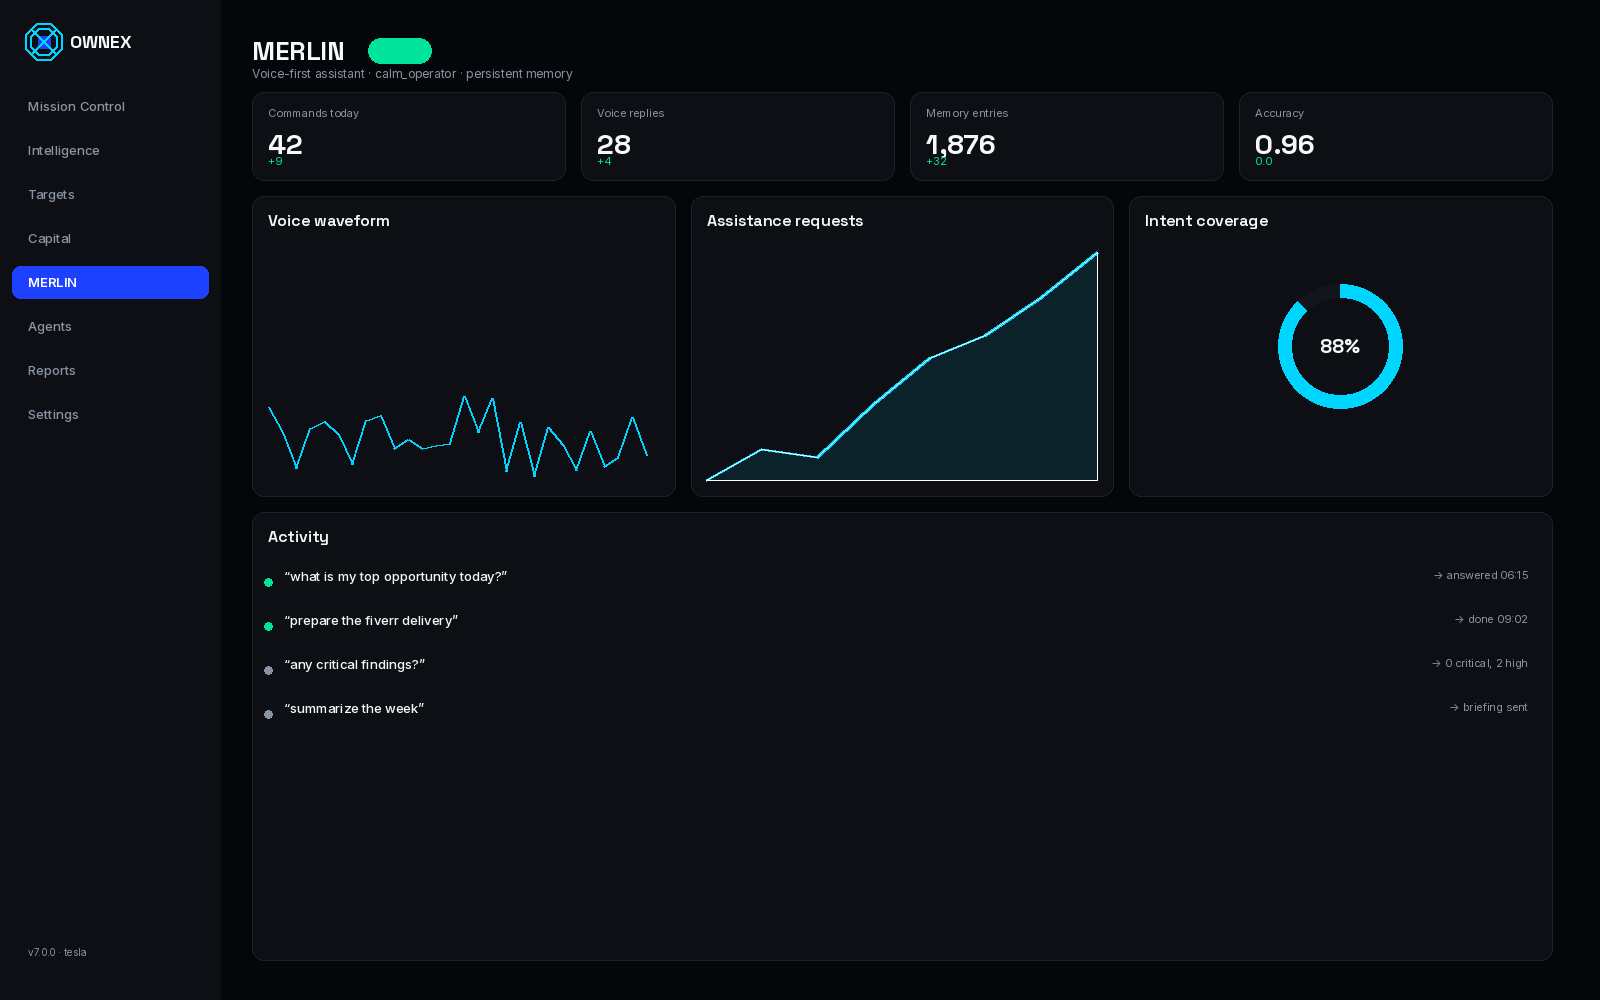
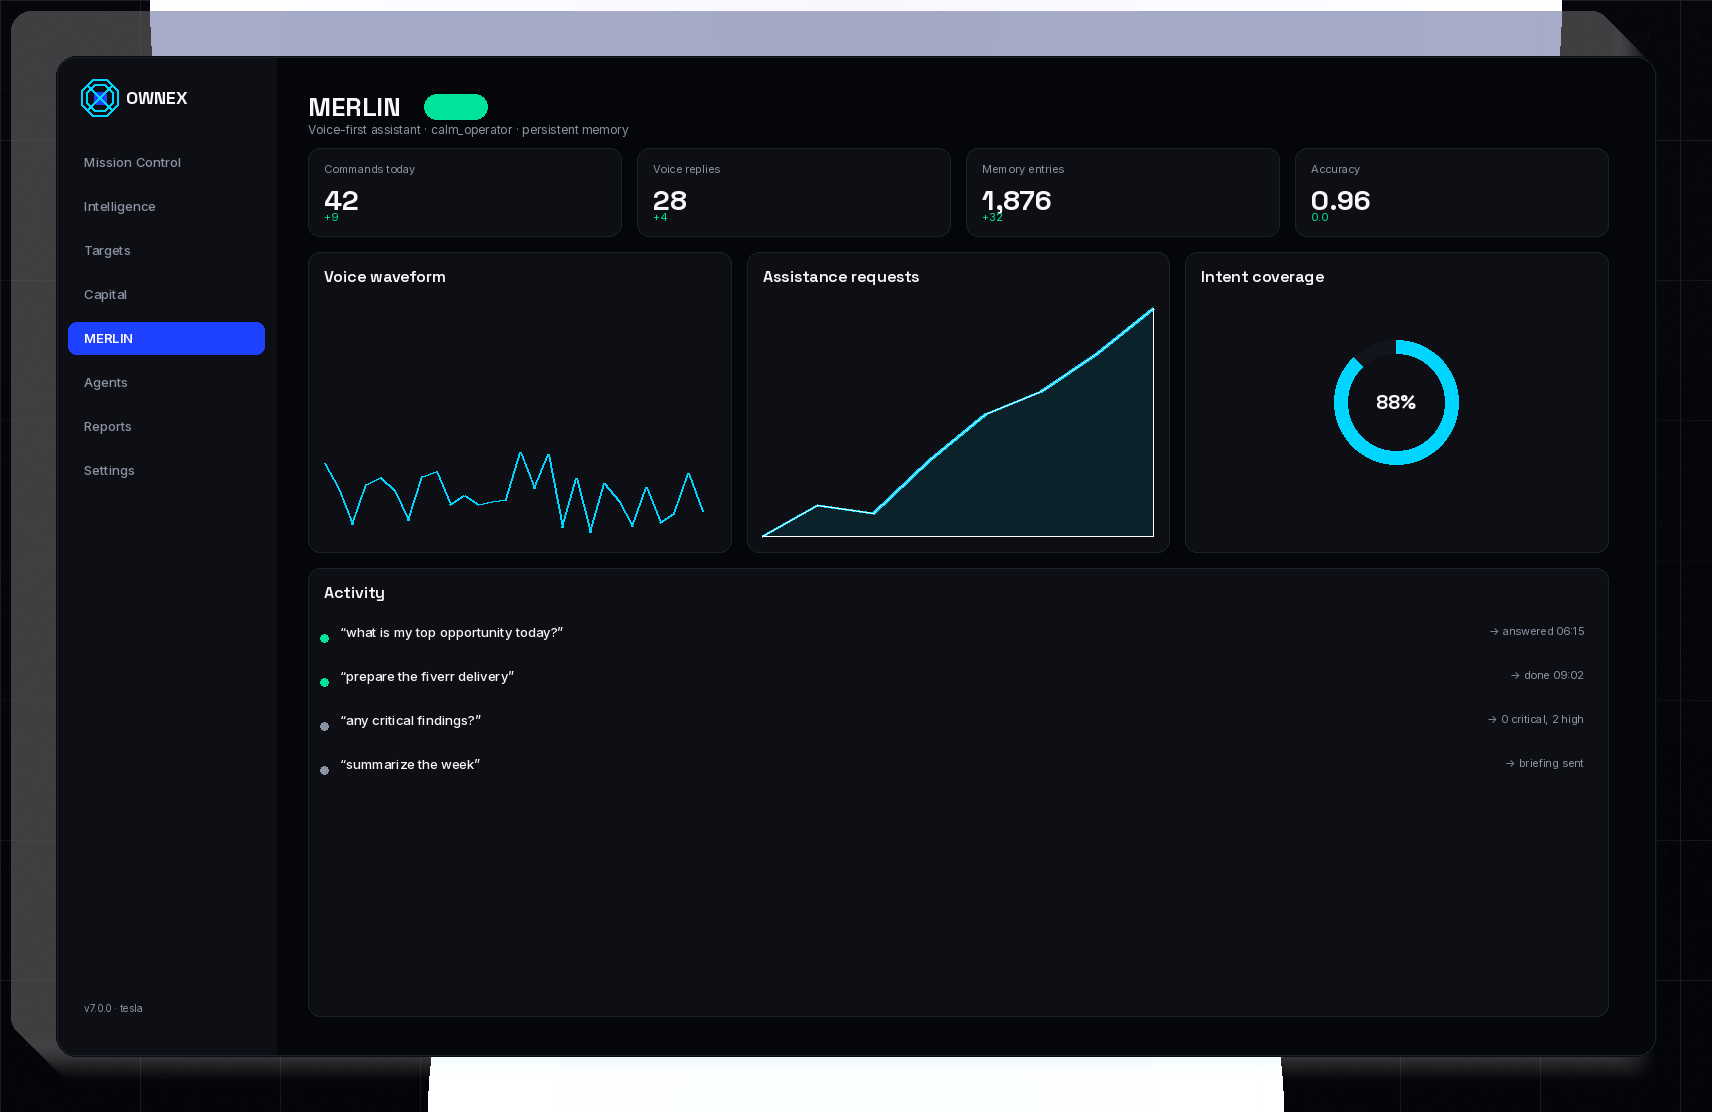
feat(brand): premium GitHub presentation — device frames, hero light, OG social sync
- desktop surfaces framed with Tesla-dark gradient + glow + grain (1600x1000 → 1712x1112)
- mobile screens framed with device bezel + shadow (1290x2796 → 1370x2876)
- hero-banner-light.png: light-mode hero variant (RGBA canvas + flatten, safe glow)
- social preview now synced from the premium OG render (og-image.png → .github/social-preview.png, md5-verified) + premium co-authored SVG
- validate_assets.py checks the new sync source
- README: hero via <picture> prefers-color-scheme, cache-bust ?v=4 → ?v=5

diff --git a/scripts/brand/generate_github_assets.py b/scripts/brand/generate_github_assets.py
@@ -16,6 +16,7 @@ from __future__ import annotations
 import math
 import os
 import random
+import shutil
 from collections.abc import Callable
 from pathlib import Path
 
@@ -192,7 +193,7 @@ def grid_faded(img: Image.Image, cx, cy, step=120, base=(13, 16, 22), peak=44):
     img.paste(ov, (0, 0), ov)
 
 
-def grain(img: Image.Image, seed: int, n=16000, alpha=7):
+def grain(img: Image.Image, seed: int, n=16000, alpha=7, color=(255, 255, 255)):
     """Subtle film grain overlay (deterministic)."""
     random.seed(seed)
     w, h = img.size
@@ -202,7 +203,7 @@ def grain(img: Image.Image, seed: int, n=16000, alpha=7):
         x = random.randrange(w)
         y = random.randrange(h)
         a = random.randint(max(alpha - 3, 1), alpha + 3)
-        od.point((x, y), fill=(255, 255, 255, a))
+        od.point((x, y), fill=color + (a,))
     img.paste(ov, (0, 0), ov)
 
 
@@ -262,28 +263,28 @@ def corner_ticks(d: ImageDraw.ImageDraw, w, h, length=70, color="#2A2F3A"):
         d.line((tx, ty, tx, ty + dy * length), fill=color, width=2)
 
 
-def eyebrow(d: ImageDraw.ImageDraw, w, t: str, y, fs=20, color="#5C6575"):
+def eyebrow(d: ImageDraw.ImageDraw, w, t: str, y, fs=20, color="#5C6575", hair=HAIRLINE, dot=EMERALD):
     """Centered mono eyebrow with hairline + status dot."""
     f_ey = mono_font(fs)
     ew = d.textlength(t, font=f_ey)
     ex = (w - ew) // 2
     wing = 300 if fs > 16 else 170
-    d.line((ex - wing, y - fs // 2, ex - 80, y - fs // 2), fill=HAIRLINE, width=1)
-    d.line((ex + ew + 80, y - fs // 2, ex + ew + wing, y - fs // 2), fill=HAIRLINE, width=1)
-    status_dot(d, w // 2, y - fs // 2, EMERALD)
+    d.line((ex - wing, y - fs // 2, ex - 80, y - fs // 2), fill=hair, width=1)
+    d.line((ex + ew + 80, y - fs // 2, ex + ew + wing, y - fs // 2), fill=hair, width=1)
+    status_dot(d, w // 2, y - fs // 2, dot)
     d.text((ex, y), t, font=f_ey, fill=color, anchor="la")
 
 
-def hero_pills(d: ImageDraw.ImageDraw, w, pills, y, fs=20):
+def hero_pills(d: ImageDraw.ImageDraw, w, pills, y, fs=20, fill=SURFACE, outline=HAIRLINE, tcol=TEXT):
     fch = font(fs, 600)
     ws = [d.textlength(lbl, font=fch) + 52 for lbl, _ in pills]
     gap = 26
     total = sum(ws) + gap * (len(pills) - 1)
     x = (w - total) // 2
     for (lbl, c), ww in zip(pills, ws, strict=True):
-        rr(d, (x, y, x + ww, y + fs + 26), r=(fs + 26) // 2, fill=SURFACE, outline=HAIRLINE, width=1)
+        rr(d, (x, y, x + ww, y + fs + 26), r=(fs + 26) // 2, fill=fill, outline=outline, width=1)
         status_dot(d, x + 22, y + (fs + 26) // 2, c, 5)
-        d.text((x + 38, y + (fs + 26) // 2), lbl, font=fch, fill=TEXT, anchor="lm")
+        d.text((x + 38, y + (fs + 26) // 2), lbl, font=fch, fill=tcol, anchor="lm")
         x += ww + gap
 
 
@@ -1205,8 +1206,88 @@ def render_architecture(name: str) -> Image.Image:
 
 
 # --------------------------------------------------------------- hero ---
+def frame_surface(img: Image.Image, pad=56, radius=20) -> Image.Image:
+    """Premium frame for desktop surface renders: backdrop + rounded app window."""
+    w, h = img.size
+    cw, ch = w + pad * 2, h + pad * 2
+    canvas = Image.new("RGBA", (cw, ch), (0, 0, 0, 0))
+    d = gradient_bg(canvas, (7, 8, 13), (4, 5, 8))
+    glow(canvas, d, cw // 2, 0, int(cw * 0.55), BLUE, peak=9, steps=20)
+    glow(canvas, d, cw // 2, ch, int(cw * 0.4), CYAN, peak=5, steps=16)
+    grid_faded(canvas, cw // 2, ch // 2, step=140, base=(13, 16, 22), peak=26)
+    grain(canvas, seed=20260814, n=14000, alpha=6)
+
+    box = (pad, pad, pad + w, pad + h)
+    card_shadow(canvas, box, r=radius, offset=(0, 26), blur=46, alpha=160)
+    mask = Image.new("L", (w, h), 0)
+    ImageDraw.Draw(mask).rounded_rectangle((0, 0, w, h), radius=radius, fill=255)
+    canvas.paste(img, (pad, pad), mask)
+    dd = ImageDraw.Draw(canvas)
+    dd.rounded_rectangle(box, radius=radius, outline=HAIRLINE, width=2)
+    dd.rounded_rectangle(box, radius=radius, outline="#0A0C11", width=1)
+    return canvas
+
+
+def frame_device(img: Image.Image, pad=40, radius=72) -> Image.Image:
+    """Premium device frame: dark bezel + screen inset + soft floor shadow."""
+    w, h = img.size
+    cw = w + pad * 2
+    ch = h + pad * 2
+    canvas = Image.new("RGBA", (cw, ch), (0, 0, 0, 0))
+    d = gradient_bg(canvas, (7, 8, 13), (3, 4, 7))
+    glow(canvas, d, cw // 2, 0, int(cw * 0.6), CYAN, peak=6, steps=18)
+    grid_faded(canvas, cw // 2, ch // 2, step=100, base=(13, 16, 22), peak=24)
+    grain(canvas, seed=20260815, n=10000, alpha=5)
+
+    bezel = (pad - 6, pad - 6, pad + w + 6, pad + h + 6)
+    card_shadow(canvas, bezel, r=radius + 6, offset=(0, 30), blur=50, alpha=170)
+    ImageDraw.Draw(canvas).rounded_rectangle(bezel, radius=radius + 6, fill="#000000", outline="#262B35", width=4)
+
+    mask = Image.new("L", (w, h), 0)
+    ImageDraw.Draw(mask).rounded_rectangle((0, 0, w, h), radius=radius, fill=255)
+    canvas.paste(img, (pad, pad), mask)
+    dd = ImageDraw.Draw(canvas)
+    dd.rounded_rectangle((pad, pad, pad + w, pad + h), radius=radius, outline=HAIRLINE, width=2)
+    return canvas
+
+
 def render_hero(mode: str = "dark") -> Image.Image:
     w, h = 2400, 900
+    if mode == "light":
+        light_bg = "#F4F6F9"
+        img = Image.new("RGBA", (w, h), (0, 0, 0, 0))
+        d = gradient_bg(img, (250, 251, 253), (227, 232, 240))
+        glow(img, d, w // 2, 240, 900, "#1E40FF", peak=14, steps=22)
+        glow(img, d, 780, 500, 500, "#0EA5C9", peak=10, steps=20)
+        grid_faded(img, w // 2, h // 2, base=(203, 210, 222), peak=38)
+        grain(img, seed=20260813, n=14000, alpha=5, color=(24, 29, 40))
+        d = ImageDraw.Draw(img)
+        d.line((0, 0, w, 0), fill="#D5DAE3", width=1)
+        corner_ticks(d, w, h, color="#C3CAD6")
+
+        eyebrow(d, w, "PERSONAL AUTONOMOUS WORK OPERATING SYSTEM", 175, fs=20, color="#5C6575", hair="#CDD3DE")
+
+        draw_mark(d, 770, 500, 360, color="#0EA5C9", node="#1E40FF")
+        gradient_text(img, (1045, 470), "OWNEX", display_font(170, 700), "#0D0F14", "#1E40FF")
+        d = ImageDraw.Draw(img)
+        tracked_text(d, (1051, 582), "AUTONOMOUS WORK OPERATING SYSTEM", font(28), "#4B5563", tracking=16)
+        d.line((1051, 650, 1051 + 760, 650), fill="#CDD3DE", width=1)
+
+        hero_pills(
+            d,
+            w,
+            [
+                ("100% LOCAL · NO CLOUD", "#00A37A"),
+                ("135 CURATED SOURCES", "#0EA5C9"),
+                ("28 CRON JOBS · 7 CYCLES", "#1E40FF"),
+            ],
+            h - 120,
+            fill="#FFFFFF",
+            outline="#D5DAE3",
+            tcol="#0D0F14",
+        )
+        return flatten(img, bg=light_bg)
+
     img = Image.new("RGBA", (w, h), _hex(BG) + (255,))
     d = gradient_bg(img, (5, 6, 10), (10, 13, 19))
     glow(img, d, w // 2, 240, 900, BLUE, peak=40, steps=22)
@@ -1266,16 +1347,17 @@ def render_og() -> Image.Image:
 
 # ----------------------------------------------------------------- main ---
 def make_surface_renderer(name: str, spec: dict) -> Callable[[], Image.Image]:
-    return lambda: render_surface(name, spec)
+    return lambda: frame_surface(render_surface(name, spec))
 
 
 def make_mobile_renderer(name: str, spec: dict) -> Callable[[], Image.Image]:
-    return lambda: render_mobile(name, spec)
+    return lambda: frame_device(render_mobile(name, spec))
 
 
 ASSETS = {
     "hero": {
         "hero-banner-dark.png": lambda: render_hero("dark"),
+        "hero-banner-light.png": lambda: render_hero("light"),
         "hero-premium.png": lambda: render_hero_premium(),
     },
     "logo": {
@@ -1319,6 +1401,96 @@ def mark_img(size: int, color: str, node: str, bg: str | None = None) -> Image.I
     return img
 
 
+def mark_svg(color: str, node: str = BLUE, size: int = 512) -> str:
+    """O+X Aperture Nexus mark as inline SVG (geometry shared with the logo pipeline)."""
+    r = 190.0
+    cx = cy = 256.0
+    stroke = 26.0
+    x1 = f'<rect x="{cx - stroke / 2}" y="{cy - r * 0.72}" width="{stroke}" height="{r * 1.44}" rx="{stroke / 2}" fill="{color}" transform="rotate(45 {cx} {cy})"/>'
+    x2 = f'<rect x="{cx - stroke / 2}" y="{cy - r * 0.72}" width="{stroke}" height="{r * 1.44}" rx="{stroke / 2}" fill="{color}" transform="rotate(-45 {cx} {cy})"/>'
+    n = 8
+    gap_deg = 34.0
+    segments = []
+    gap_start = 45.0 - gap_deg / 2
+    for i in range(n):
+        a0 = i * (360.0 / n)
+        a1 = a0 + (360.0 / n)
+        center = (a0 + a1) / 2
+        if abs(((center - gap_start + 180) % 360) - 180) < gap_deg / 2 + 5:
+            continue
+        x0 = cx + r * math.cos(math.radians(a0))
+        y0 = cy + r * math.sin(math.radians(a0))
+        x1p = cx + r * math.cos(math.radians(a1))
+        y1p = cy + r * math.sin(math.radians(a1))
+        segments.append(
+            f'<line x1="{x0:.1f}" y1="{y0:.1f}" x2="{x1p:.1f}" y2="{y1p:.1f}" stroke="{color}" stroke-width="{stroke}" stroke-linecap="round"/>'
+        )
+    nx = cx + r * 1.06
+    ny = cy - r * 1.06
+    node_circle = f'<circle cx="{nx:.1f}" cy="{ny:.1f}" r="{stroke * 0.62:.1f}" fill="{node}"/>'
+    core = f'<rect x="{cx - 14}" y="{cy - 14}" width="28" height="28" fill="{color}" transform="rotate(45 {cx} {cy})"/>'
+    return f"""<svg width="{size}" height="{size}" viewBox="0 0 512 512" xmlns="http://www.w3.org/2000/svg">
+{"".join(segments)}
+{x1}
+{x2}
+{node_circle}
+{core}
+</svg>"""
+
+
+def social_preview_svg() -> str:
+    """Premium social preview SVG, coherent with the render_og() PNG.
+
+    Same composition: Aperture Nexus mark + OWNEX wordmark + eyebrow + pills
+    on a Tesla-dark gradient with soft glows. Rendered by GitHub when the
+    PNG is unavailable (e.g. some chat clients use the SVG directly).
+    """
+    grid_lines = []
+    for x in range(0, 1201, 80):
+        grid_lines.append(f'<line x1="{x}" y1="0" x2="{x}" y2="630" stroke="rgba(28,32,40,0.45)" stroke-width="1"/>')
+    for y in range(0, 631, 80):
+        grid_lines.append(f'<line x1="0" y1="{y}" x2="1200" y2="{y}" stroke="rgba(28,32,40,0.45)" stroke-width="1"/>')
+
+    mark = mark_svg("#F6F8FB", "#1E40FF", size=512)
+    return f"""<svg width="1200" height="630" viewBox="0 0 1200 630" xmlns="http://www.w3.org/2000/svg">
+<defs>
+  <linearGradient id="bg" x1="0" y1="0" x2="0" y2="1">
+    <stop offset="0" stop-color="#05060A"/>
+    <stop offset="1" stop-color="#0C0F1A"/>
+  </linearGradient>
+  <radialGradient id="glowBlue" cx="0.22" cy="0.18" r="0.65">
+    <stop offset="0" stop-color="rgba(30,64,255,0.32)"/>
+    <stop offset="1" stop-color="rgba(30,64,255,0)"/>
+  </radialGradient>
+  <radialGradient id="glowCyan" cx="0.78" cy="0.88" r="0.6">
+    <stop offset="0" stop-color="rgba(0,213,255,0.14)"/>
+    <stop offset="1" stop-color="rgba(0,213,255,0)"/>
+  </radialGradient>
+  <linearGradient id="titleText" x1="0" y1="0" x2="1" y2="0">
+    <stop offset="0" stop-color="#F6F8FB"/>
+    <stop offset="1" stop-color="#8FD8FF"/>
+  </linearGradient>
+</defs>
+<rect width="1200" height="630" fill="url(#bg)"/>
+<rect width="1200" height="630" fill="url(#glowBlue)"/>
+<rect width="1200" height="630" fill="url(#glowCyan)"/>
+<g opacity="0.5">{"".join(grid_lines)}</g>
+<rect x="72" y="62" width="1056" height="1" fill="#1C2028" opacity="0.7"/>
+<g transform="translate(190, 155) scale(0.62)">{mark}</g>
+<circle cx="560" cy="318" r="3.5" fill="#00E39A"/>
+<text x="576" y="324" font-family="'JetBrains Mono','DejaVu Sans Mono',monospace" font-size="16" font-weight="500" letter-spacing="6" fill="#8A93A3">AUTONOMOUS WORK OPERATING SYSTEM</text>
+<text x="558" y="402" font-family="'Space Grotesk','Inter',sans-serif" font-size="104" font-weight="700" letter-spacing="-4" fill="url(#titleText)">OWNEX</text>
+<text x="560" y="448" font-family="'JetBrains Mono','DejaVu Sans Mono',monospace" font-size="15" letter-spacing="3" fill="#8A93A3">DISCOVER · ANALYZE · VALIDATE · EARN</text>
+<rect x="560" y="470" width="520" height="1" fill="#1C2028"/>
+<g font-family="'JetBrains Mono','DejaVu Sans Mono',monospace" font-size="14" letter-spacing="2">
+  <circle cx="560" cy="508" r="2.5" fill="#00E39A"/>
+  <text x="572" y="513" fill="#00E39A">100% LOCAL · NO CLOUD</text>
+  <circle cx="852" cy="508" r="2.5" fill="#00D5FF"/>
+  <text x="864" y="513" fill="#00D5FF">7 WORK CYCLES · 28 JOBS</text>
+</g>
+</svg>"""
+
+
 def main() -> None:
     os.makedirs(OUT, exist_ok=True)
     total = 0
@@ -1334,6 +1506,13 @@ def main() -> None:
             kb = os.path.getsize(outdir / fname) / 1024
             print(f"  ✓ {folder}/{fname}  {img.size[0]}×{img.size[1]}  {kb:.0f}KB")
             total += 1
+
+    gh = ROOT / ".github"
+    gh.mkdir(exist_ok=True)
+    shutil.copyfile(OUT / "social" / "og-image.png", gh / "social-preview.png")
+    (gh / "social-preview.svg").write_text(social_preview_svg())
+    print("  ✓ .github/social-preview.png (synced to premium OG render)")
+    print("  ✓ .github/social-preview.svg (premium, generated)")
     print(f"\nGenerated {total} assets in {OUT}")
 
 

diff --git a/scripts/brand/validate_assets.py b/scripts/brand/validate_assets.py
@@ -75,9 +75,10 @@ def main() -> None:
     def md5_of(p: Path) -> str:
         return md5(p.read_bytes()).hexdigest()
 
-    src = ROOT / "docs" / "assets" / "branding" / "social" / "ownex-social-preview.png"
+    src = ROOT / "docs" / "assets" / "github" / "social" / "og-image.png"
     dst = ROOT / ".github" / "social-preview.png"
     check(src.exists() and dst.exists() and md5_of(src) == md5_of(dst), "social-preview.png in sync")
+    check((ROOT / ".github" / "social-preview.svg").exists(), "social-preview.svg exists")
 
     print("Screenshots")
     shots = list((ROOT / "docs" / "assets" / "screenshots" / "desktop").glob("*.png"))

diff --git a/README.md b/README.md
@@ -1,5 +1,8 @@
 <p align="center">
-  <img src="docs/assets/github/hero/hero-banner-dark.png?v=4" alt="OWNEX — Autonomous Work Operating System" width="100%"/>
+  <picture>
+    <source media="(prefers-color-scheme: dark)" srcset="docs/assets/github/hero/hero-banner-dark.png?v=5">
+    <img src="docs/assets/github/hero/hero-banner-light.png?v=5" alt="OWNEX — Autonomous Work Operating System" width="100%"/>
+  </picture>
 </p>
 
 <p align="center">
@@ -78,7 +81,7 @@ The human sits at the **decision gate**. The system does everything before and a
 > Central operational surface for monitoring opportunities, agents and active work.
 
 <p align="center">
-  <img src="docs/assets/github/desktop/mission-control.png" alt="Mission Control" width="100%"/>
+  <img src="docs/assets/github/desktop/mission-control.png?v=5" alt="Mission Control" width="100%"/>
 </p>
 
 **Endpoints:** [`GET /api/mission/status`](.ai/CURRENT_STATE.md), [`GET /api/activity`](docs/diagrams/architecture.mmd), [`POST /api/hunt/start`](.ai/ROADMAP.md)
@@ -87,28 +90,28 @@ The human sits at the **decision gate**. The system does everything before and a
 > Information processing and opportunity analysis surfaces — findings, hypotheses, evidence, confidence.
 
 <p align="center">
-  <img src="docs/assets/github/desktop/intelligence.png" alt="Intelligence" width="100%"/>
+  <img src="docs/assets/github/desktop/intelligence.png?v=5" alt="Intelligence" width="100%"/>
 </p>
 
 ### Targets 📍
 > Target intelligence and opportunity prioritization — scan queues, attack surface, prioritization.
 
 <p align="center">
-  <img src="docs/assets/github/desktop/targets.png" alt="Targets" width="100%"/>
+  <img src="docs/assets/github/desktop/targets.png?v=5" alt="Targets" width="100%"/>
 </p>
 
 ### Capital 💰
 > Revenue tracking and financial intelligence dashboard — USD/hour per platform, payout timelines, ROI.
 
 <p align="center">
-  <img src="docs/assets/github/desktop/capital.png" alt="Capital" width="100%"/>
+  <img src="docs/assets/github/desktop/capital.png?v=5" alt="Capital" width="100%"/>
 </p>
 
 ### MERLIN 🤖
 > AI assistant with persistent memory, intent analysis, Office Retro personality (`calm_operator`, local-first Piper TTS, native mic).
 
 <p align="center">
-  <img src="docs/assets/github/desktop/merlin.png" alt="MERLIN" width="100%"/>
+  <img src="docs/assets/github/desktop/merlin.png?v=5" alt="MERLIN" width="100%"/>
 </p>
 
 **API:** [`POST /api/voice/assistant`](.ai/CURRENT_STATE.md), `POST /direct-work/daily-companion`
@@ -117,37 +120,37 @@ The human sits at the **decision gate**. The system does everything before and a
 > Twelve departmental specialists — Security, Coding, QA, Debug, Documentation, Research, Product, Revenue, Automation, Infrastructure, Evolution, Orchestrator.
 
 <p align="center">
-  <img src="docs/assets/github/desktop/agents.png" alt="Agents" width="100%"/>
+  <img src="docs/assets/github/desktop/agents.png?v=5" alt="Agents" width="100%"/>
 </p>
 
 ### Reports 📊
 > Report generation, submission tracking, finder queues.
 
 <p align="center">
-  <img src="docs/assets/github/desktop/reports.png" alt="Reports" width="100%"/>
+  <img src="docs/assets/github/desktop/reports.png?v=5" alt="Reports" width="100%"/>
 </p>
 
 ### Settings ⚙
 > System configuration, AI providers, credentials, scheduler, integrations.
 
 <p align="center">
-  <img src="docs/assets/github/desktop/settings.png" alt="Settings" width="100%"/>
+  <img src="docs/assets/github/desktop/settings.png?v=5" alt="Settings" width="100%"/>
 </p>
 
 ### Mobile (OMEGA) 📱
 > Native companion (Capacitor Android): home, agents, opportunities, MERLIN chat, notifications, watch sync.
 
 <p align="center">
-  <img src="docs/assets/github/mobile/omega-home.png" alt="OMEGA home" width="24%"/>
-  <img src="docs/assets/github/mobile/omega-agents.png" alt="OMEGA agents" width="24%"/>
-  <img src="docs/assets/github/mobile/omega-opportunities.png" alt="OMEGA opportunities" width="24%"/>
-  <img src="docs/assets/github/mobile/omega-merlin.png" alt="OMEGA MERLIN" width="24%"/>
+  <img src="docs/assets/github/mobile/omega-home.png?v=5" alt="OMEGA home" width="24%"/>
+  <img src="docs/assets/github/mobile/omega-agents.png?v=5" alt="OMEGA agents" width="24%"/>
+  <img src="docs/assets/github/mobile/omega-opportunities.png?v=5" alt="OMEGA opportunities" width="24%"/>
+  <img src="docs/assets/github/mobile/omega-merlin.png?v=5" alt="OMEGA MERLIN" width="24%"/>
 </p>
 <p align="center">
-  <img src="docs/assets/github/mobile/omega-notification.png" alt="OMEGA notifications" width="24%"/>
-  <img src="docs/assets/github/mobile/omega-opportunity-detail.png" alt="OMEGA opportunity detail" width="24%"/>
-  <img src="docs/assets/github/mobile/omega-settings.png" alt="OMEGA settings" width="24%"/>
-  <img src="docs/assets/github/mobile/omega-watch.png" alt="OMEGA watch" width="24%"/>
+  <img src="docs/assets/github/mobile/omega-notification.png?v=5" alt="OMEGA notifications" width="24%"/>
+  <img src="docs/assets/github/mobile/omega-opportunity-detail.png?v=5" alt="OMEGA opportunity detail" width="24%"/>
+  <img src="docs/assets/github/mobile/omega-settings.png?v=5" alt="OMEGA settings" width="24%"/>
+  <img src="docs/assets/github/mobile/omega-watch.png?v=5" alt="OMEGA watch" width="24%"/>
 </p>
 
 ---
